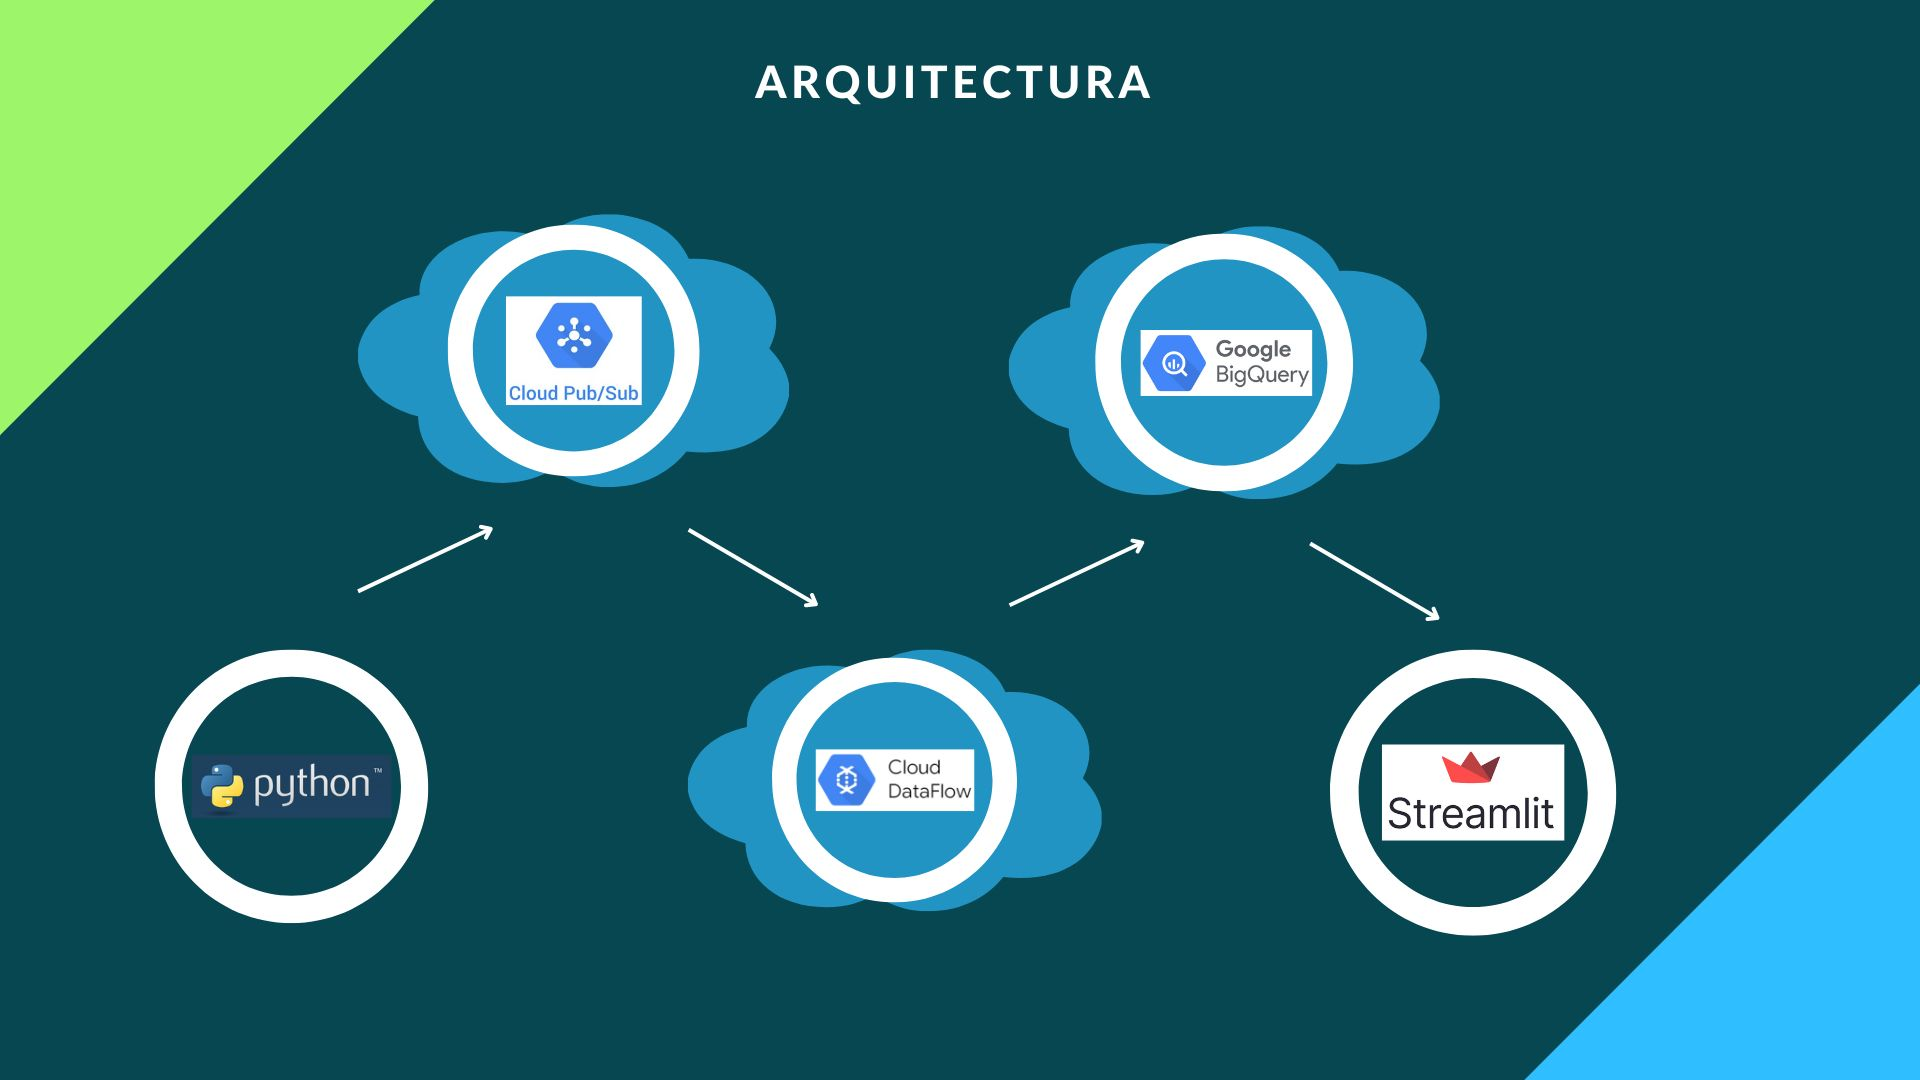
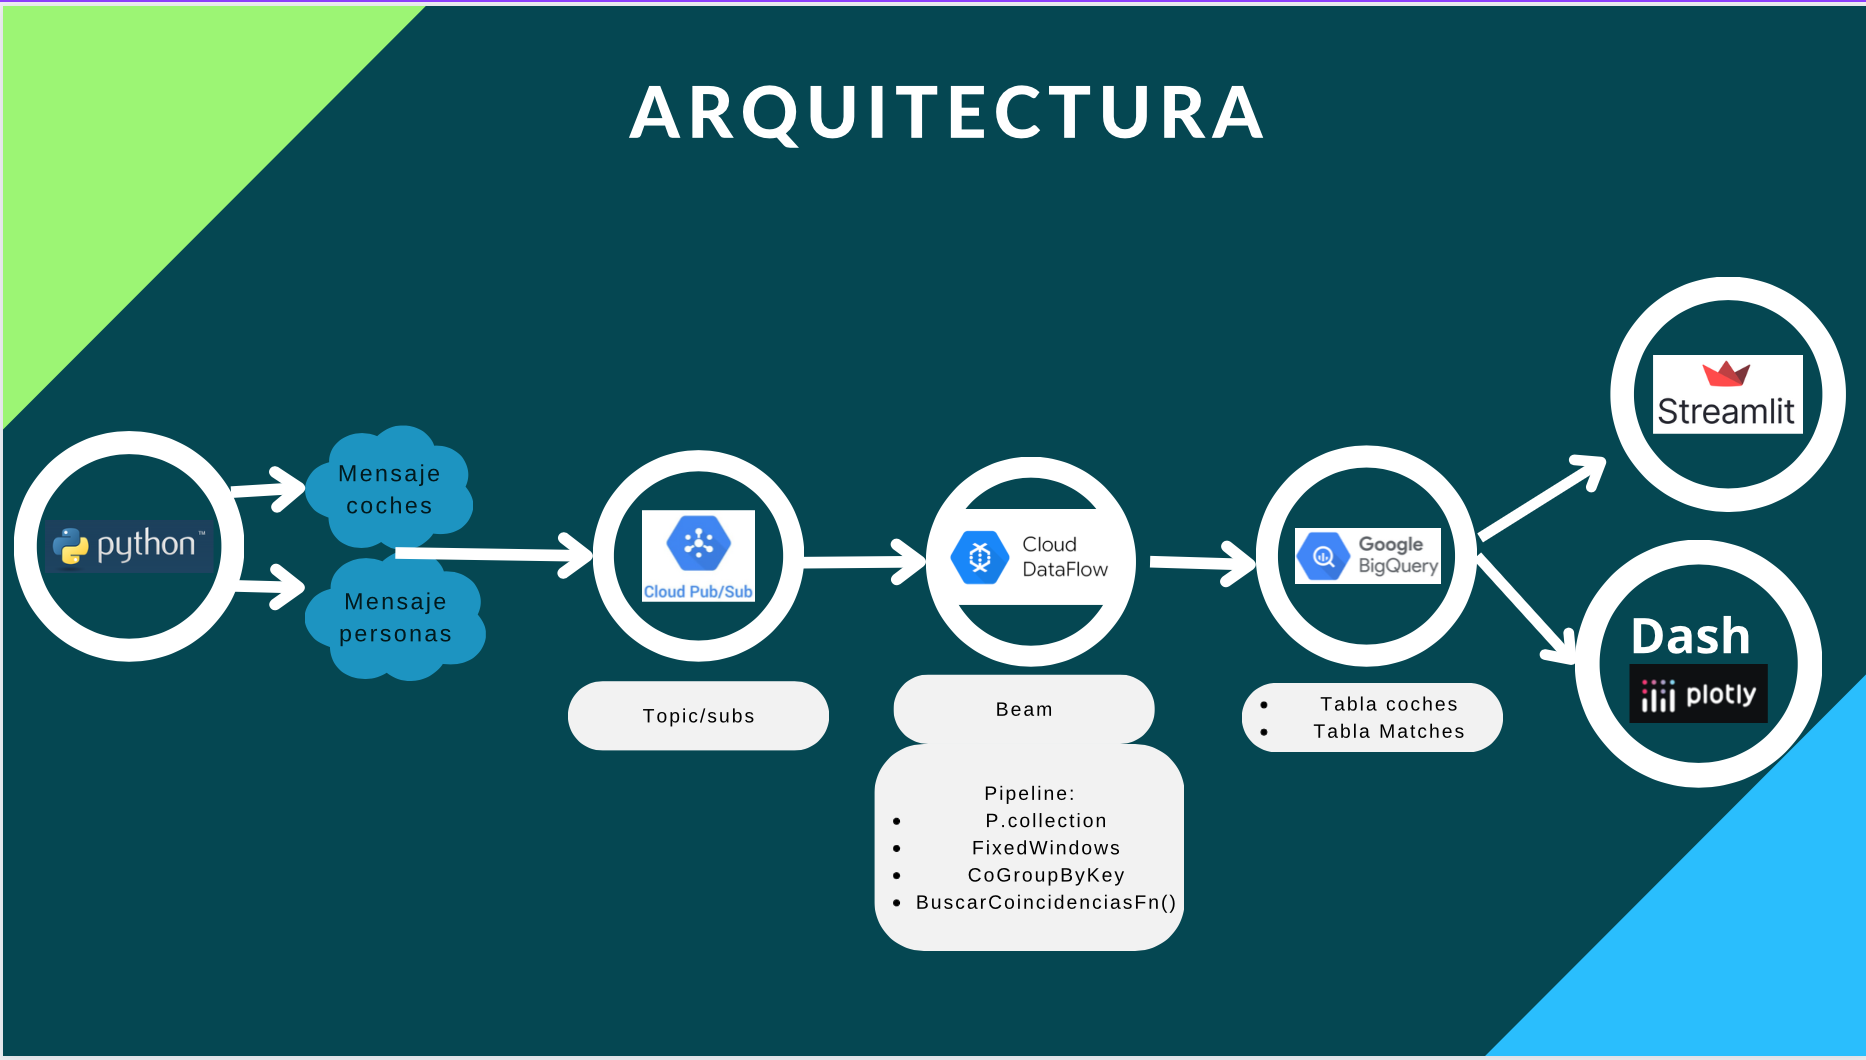
dash + architecture

diff --git a/Dash_plotly/my_dash.py b/Dash_plotly/my_dash.py
@@ -1,0 +1,214 @@
+import dash
+from dash.dependencies import Input, Output
+from dash import dcc, html 
+import plotly.graph_objects as go
+from google.cloud import bigquery
+from google.oauth2 import service_account
+from datetime import datetime
+
+
+# Configura tus credenciales de BigQuery
+client = bigquery.Client
+
+# Inicializa la aplicación Dash
+app = dash.Dash(__name__)
+
+# Crea una figura de mapa en blanco para empezar
+fig = go.Figure(go.Scattermapbox())
+
+# Configura el layout (la visualización) del mapa
+fig.update_layout(
+    mapbox_style="open-street-map",
+    mapbox_zoom=12,
+    mapbox_center={"lat": 39.4699, "lon": -0.3763},  # Coordenadas aproximadas de Valencia
+    height=800,  # Altura del mapa en píxeles
+    width=1200    # Anchura del mapa en píxeles
+)
+
+# Función para obtener los datos de las coches de BigQuery y convertirlos en un DataFrame de pandas
+def get_route_data():
+    query = """
+    SELECT *
+    FROM `data-project-33-413616.dataprojectg4.coches_todos`
+    ORDER BY car_id, timestamp ASC
+    """
+    query_job = client.query(query)
+    results = query_job.result()
+    return results.to_dataframe()
+
+# Función para obtener los datos de las personas de BigQuery y convertirlos en un DataFrame de pandas
+def get_person_data(last_index, limit=10):
+    query = f"""
+    SELECT *
+    FROM `data-project-33-413616.dataprojectg4.personas_todas`
+    WHERE persona_id NOT IN (
+        SELECT persona_id
+        FROM `data-project-33-413616.dataprojectg4.matches2`
+    )
+    ORDER BY persona_id
+    """
+    query_job = client.query(query)
+    results = query_job.result()
+    return results.to_dataframe()
+
+# Función para obtener los IDs de las personas con matches
+def get_matched_person_ids():
+    query = """
+    SELECT persona_id
+    FROM `data-project-33-413616.dataprojectg4.matches2`
+    """
+    query_job = client.query(query)
+    results = query_job.result()
+    matched_person_ids = [row.persona_id for row in results]
+    return matched_person_ids
+
+# Función para obtener los nuevos matches desde el último tiempo de verificación
+def get_new_matches(last_check_time):
+    query = f"""
+    SELECT car_id, persona_id
+    FROM `data-project-33-413616.dataprojectg4.matches2`
+    WHERE timestamp > '{last_check_time}'
+    """
+    query_job = client.query(query)
+    results = query_job.result()
+    return [(row.car_id, row.persona_id) for row in results]
+
+# Define el layout de la aplicación Dash
+app.layout = html.Div([
+    html.H1("BlaBlaCar CityConnect", style={'textAlign': 'center'}),
+    html.Div(id='match-message', style={'color': 'green', 'fontSize': '16px', 'textAlign': 'center'}),
+    dcc.Store(id='last-check-time', data=str(datetime.utcnow())),  # Almacena el último momento de verificación
+    html.Div(
+        dcc.Graph(id='map-graph', style={'width': '80vw', 'height': '80vh'}),
+        style={
+            'display': 'flex',
+            'justifyContent': 'center',
+            'alignItems': 'center'
+        }
+    ),
+    dcc.Interval(
+        id='interval-component',
+        interval=50000,  # Intervalo ajustado a 50 segundos para el ejemplo
+        n_intervals=0
+    )
+])
+
+# Callback para mostrar en el mapa los nuevos matches
+@app.callback(
+    Output('match-message', 'children'),
+    [Input('interval-component', 'n_intervals'),
+     Input('last-check-time', 'data')]  # Agrega Input para obtener el último tiempo de verificación
+)
+def update_match_message(n_intervals, last_check_time):
+    # Suponiendo que implementas una función que verifica nuevos matches
+    new_matches = get_new_matches(last_check_time)  # Proporciona last_check_time a la función
+    
+    if new_matches:
+        # Genera los mensajes de match para mostrar
+        messages = [f"¡¡Match del {match['car_id']}!!" for match in new_matches]
+        return ", ".join(messages)
+    return "No hay nuevos matches."
+
+
+# Callback para actualizar el mapa con la ruta seleccionada
+@app.callback(
+    Output('map-graph', 'figure'),
+    [Input('interval-component', 'n_intervals')]
+)
+def update_map(n_intervals):
+    df = get_route_data()
+    last_index = 0  # Definido para la paginación
+    df_personas = get_person_data(last_index)
+    matched_person_ids = get_matched_person_ids()
+    # Filtra df_personas para excluir a las personas que están en matched_person_ids
+    df_personas_filtered = df_personas[~df_personas['persona_id'].isin(matched_person_ids)]
+    if not df.empty:
+        fig = go.Figure()
+
+        # Iterar sobre cada coche único
+        for car_id in df['car_id'].unique():
+            car_df = df[df['car_id'] == car_id]
+
+            # El destino se considera como la última posición registrada para este car_id
+            if not car_df.empty:
+                destino_coche = car_df.iloc[-1]['destino_coche']  # Asumiendo que 'destino' es una columna en tu DataFrame
+
+                # Añadir la ruta de este coche
+                fig.add_trace(go.Scattermapbox(
+                    mode="lines+markers",
+                    lon=car_df['lon'],
+                    lat=car_df['lat'],
+                    text=[f"{car_id}"] * len(car_df), 
+                    hoverinfo="text",
+                    marker={'size': 5},
+                    line={'width': 5},
+                    name=f'Ruta {car_id}',
+                    showlegend=False
+                ))
+
+                # Añadir un marcador especial para la posición actual del coche
+                hover_text = f"{car_id} - Viaje: {destino_coche}"
+                fig.add_trace(go.Scattermapbox(
+                    mode="markers",
+                    lon=[car_df.iloc[-1]['lon']],
+                    lat=[car_df.iloc[-1]['lat']],
+                    marker={'size': 10, 'color': 'orange'},
+                    text=[hover_text],  # Establece el texto personalizado aquí
+                    hoverinfo="text",  # Muestra solo el texto personalizado al pasar el cursor
+                    name=f'Posición actual {car_id}',
+                    showlegend=False
+                ))
+                
+                # Marcador de inicio para esta ruta
+                fig.add_trace(go.Scattermapbox(
+                    mode="markers+text",
+                    lon=[car_df['lon'].iloc[0]],
+                    lat=[car_df['lat'].iloc[0]],
+                    text=["Inicio"],
+                    textposition="top right",
+                    marker={'size': 12, 'color': 'green'},
+                    hoverinfo='text',
+                    showlegend=False
+                ))
+                
+                # Marcador de destino para esta ruta
+                fig.add_trace(go.Scattermapbox(
+                    mode="markers+text",
+                    lon=[car_df['lon'].iloc[-1]],
+                    lat=[car_df['lat'].iloc[-1]],
+                    text=["Destino"],
+                    textposition="bottom right",
+                    marker={'size': 12, 'color': 'red'},
+                    hoverinfo='text',
+                    showlegend=False
+                ))
+        
+        # Añade marcadores para las personas
+        for _, row in df_personas_filtered.iterrows():
+            fig.add_trace(go.Scattermapbox(
+                mode="markers+text",
+                lon=[row['lon']],
+                lat=[row['lat']],
+                marker={'size': 10, 'color': 'purple'},
+                text=[row['nombre']], 
+                textposition="bottom right",
+                hoverinfo='text',
+                showlegend=False  
+            ))
+
+        fig.update_layout(
+            mapbox_style="open-street-map",
+            mapbox_zoom=12,
+            mapbox_center={"lat": df['lat'].mean(), "lon": df['lon'].mean()},
+            legend=dict(
+                yanchor="top",
+                y=0.99,
+                xanchor="left",
+                x=0.01
+            )
+        )
+        return fig
+    return dash.no_update
+
+if __name__ == '__main__':
+    app.run_server(debug=True)
